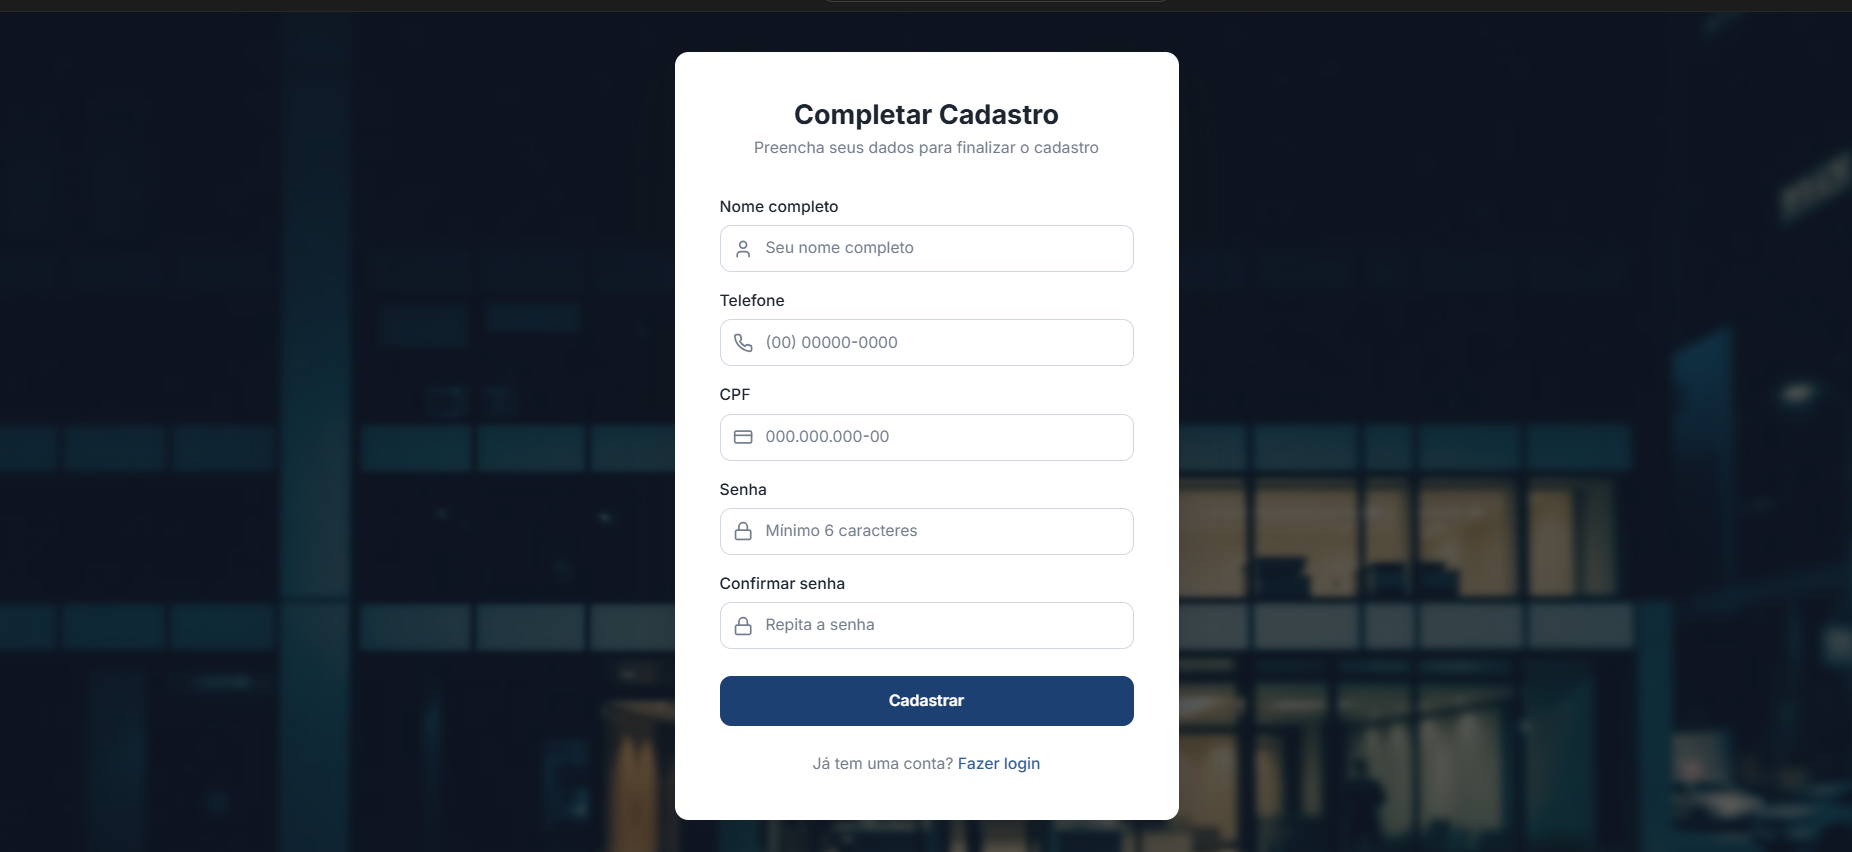
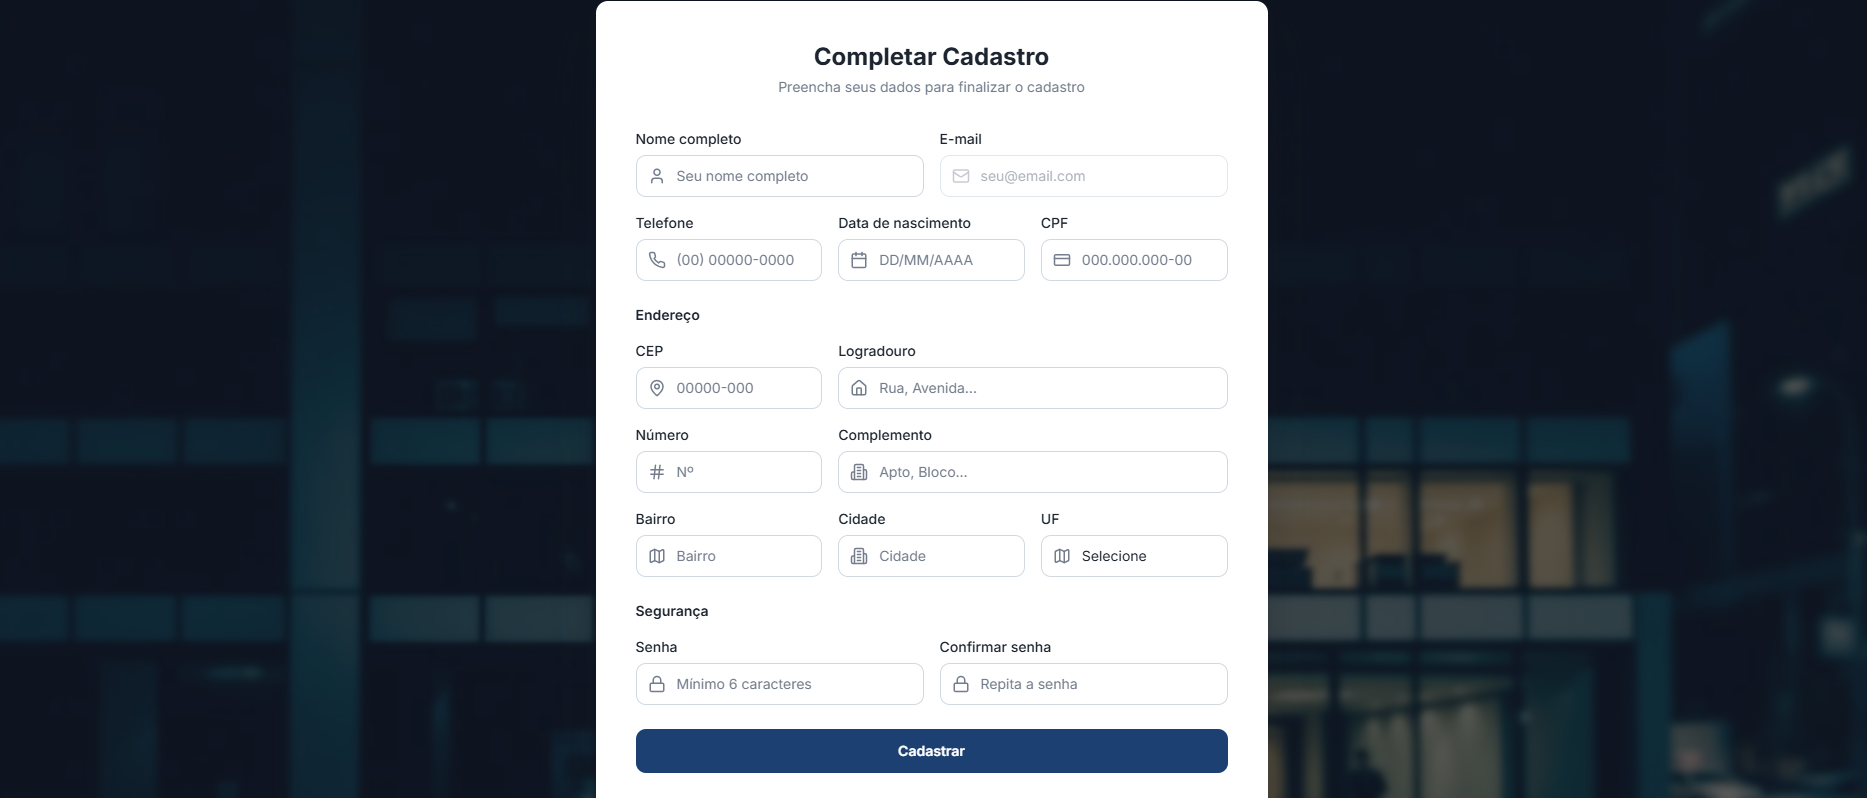
Correções nos wireframes

diff --git a/docs/processo-1-gestao-de-usuario.md b/docs/processo-1-gestao-de-usuario.md
@@ -351,7 +351,7 @@ O processo de **Registro de Usuário Convidado** tem como objetivo permitir que 
 ![Tela Criação de Convite para Colaborador](images/wireframe/inviteColaboradoresServify.png)
 
 ### Registro de Colaboradores e Cliente
-![Tela Registro de Usuário Convidado](images/wireframe/listagemClientesServify.png.png)
+![Tela Registro de Usuário Convidado](images/wireframe/listagemClientesServify.png)
 ![Tela Registro de Usuário Convidado](images/wireframe/listagemColaboradoresServify.png)
 
 
